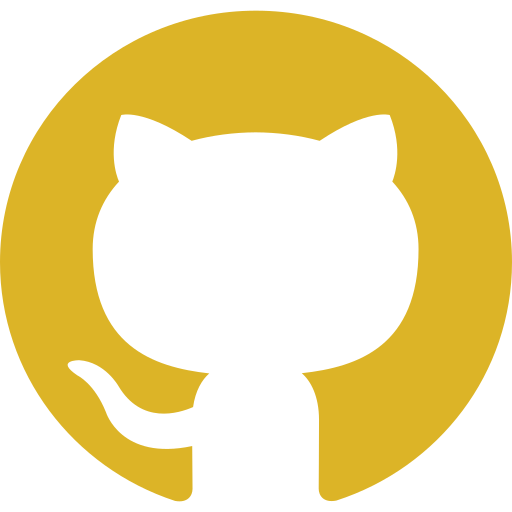
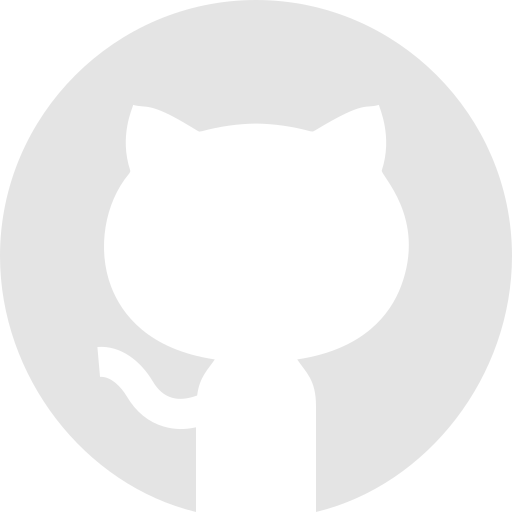
update

diff --git a/src/component/Projects.js b/src/component/Projects.js
@@ -12,7 +12,7 @@ function Projects() {
                     <div className="project-detail">
                         <div className="p-1">
                             <h2>SpookyEgg</h2>
-                            <a href="https://github.com/jpatnaree/SpookyEgg"><img className="linktogh" src='image/github.png' alt='link to GitHub' /></a>
+                            <a href="https://github.com/jpatnaree/SpookyEgg"><img className="linktogh" src='image/githubrepo.png' alt='link to GitHub' /></a>
                             <a id='demolink' href="https://drive.google.com/file/d/1HDmcycVJCyBscuLkdg2YOa7unq0ODUGL/view?usp=sharing"> Demo</a>
                             <h3>React JS Python Flask MapboxGL HTML CSS</h3>
                             <h4>Explore the supernatural side of hospitality with my Spooky Hotel Review Application with interactive map</h4>
@@ -25,7 +25,7 @@ function Projects() {
                     <div className="project-detail">
                         <div className="p-1">
                             <h2>Schmooze</h2>
-                            <a href="https://github.com/ian-a-frankel/schmooze"><img className="linktogh" src='image/github.png' alt='link to GitHub' /></a>
+                            <a href="https://github.com/ian-a-frankel/schmooze"><img className="linktogh" src='image/githubrepo.png' alt='link to GitHub' /></a>
                             <h3>React JS Python Flask HTML CSS</h3>
                             <h5>Contributers: Ian Frankel, Khrystyna Klapushchak, Isamar Gonzalez-Banos</h5>
                             <h4>Conversate seamlessly with our Chat-Based Messenger App – Your intuitive and engaging communication platform.</h4>
@@ -39,7 +39,7 @@ function Projects() {
                     <div className="project-detail">
                         <div className="p-1">
                             <h2>Library of Hayao Miyazaki</h2>
-                            <a href="https://github.com/jpatnaree/HayaoMiyazaki"><img className="linktogh" src='image/github.png' alt='link to GitHub' /></a>
+                            <a href="https://github.com/jpatnaree/HayaoMiyazaki"><img className="linktogh" src='image/githubrepo.png' alt='link to GitHub' /></a>
                             <h3>ReactJS HTML CSS</h3>
                             <h4>A Database of Hayao Miyazaki's Masterpieces</h4>
                         </div>
@@ -52,7 +52,7 @@ function Projects() {
                     <div className="project-detail">
                         <div className="p-1">
                             <h2>Mario: Super Chett!</h2>
-                            <a href="https://github.com/royelaawar/Project-3-Mario"><img className="linktogh" src='image/github.png' alt='link to GitHub' /></a>
+                            <a href="https://github.com/royelaawar/Project-3-Mario"><img className="linktogh" src='image/githubrepo.png' alt='link to GitHub' /></a>
                             <h3>Python Pygame</h3>
                             <h5>Contributer: Oliver Gray, Roy Elaawar</h5>
                             <h4>Embark on an adventurous journey with our Mario-inspired knock-off! Encounter challenging, brutal maps designed to test your skills and perseverance. Can you conquer the unforgiving terrain?</h4>
@@ -66,7 +66,7 @@ function Projects() {
                     <div className="project-detail">
                         <div className="p-1">
                             <h2>Crystal Harmony</h2>
-                            <a href="https://github.com/KhrystynaKla/Crystal-Harmony-Project"><img className="linktogh" src='image/github.png' alt='link to GitHub' /></a>
+                            <a href="https://github.com/KhrystynaKla/Crystal-Harmony-Project"><img className="linktogh" src='image/githubrepo.png' alt='link to GitHub' /></a>
                             <h3>Vanilla JavaScript HTML CSS</h3>
                             <h5>Contributers: Khrystyna Klapushchak, Isamar Gonzalez-Banos</h5>
                             <h4>Discover serenity at our Healing Crystal Shop, where each crystal is a gateway to wellness. Explore a wealth of information on the unique benefits of every crystal, guiding you towards a harmonious balance of mind, body, and spirit.</h4>

diff --git a/src/component/Home.js b/src/component/Home.js
@@ -13,13 +13,13 @@ function Home() {
             <div className="namediv">
                 <h1 id='name'>Patnaree</h1>
                 <h1 id='fullname'>⟨ Pat ⟩ Johnson</h1>
+                <div className="linkinfo">
+                    <a href="https://github.com/jpatnaree"> <img src="image/github.png" alt='GitHub'/> </a>
+                    <a href="https://www.linkedin.com/in/patnaree-johnson-470643299/"> <img src="image/linkedin.png" alt='LinkedIn'/></a>
+                    <a href="mailto:jpatnaree@gmail.com"><img src="image/email.png" alt='Email'/></a>
+                </div>
             </div>
 
-            <div className="linkinfo">
-                <a href="https://github.com/jpatnaree"> <img src="image/github.png" alt='GitHub'/> </a>
-                <a href="https://www.linkedin.com/in/patnaree-johnson-470643299/"> <img src="image/linkedin.png" alt='LinkedIn'/></a>
-                <a href="mailto:jpatnaree@gmail.com"><img src="image/email.png" alt='Email'/></a>
-            </div>
 
         </div>
         </>

diff --git a/src/App.css b/src/App.css
@@ -53,11 +53,11 @@ a {
 }
 
 #dev{
-  margin-top: -16vh;
+  margin-top: -8vh;
 }
 
 #dev2{
-  margin-top: -13vh;
+  margin-top: -10vh;
   color: #d3d3d3a1;
   /* margin-left: 12%; */
 }
@@ -68,7 +68,7 @@ a {
 }
 
 .linkinfo {
-  padding-left: 5%;
+  /* padding-left: 5%; */
   padding-bottom: 1%;
 }
 
@@ -282,8 +282,8 @@ a {
 }
 
 .linktogh {
-  width: 25px;
-  height: 25px;
+  width: 35px;
+  height: 35px;
   margin-right: 2%;
 }
 /* 
